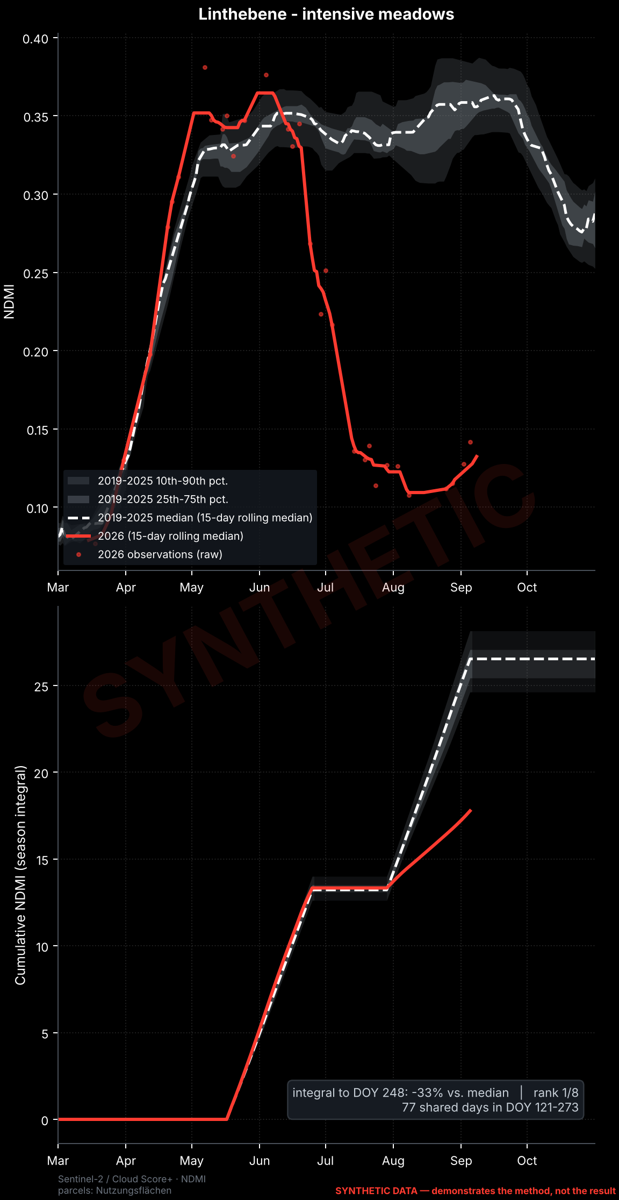
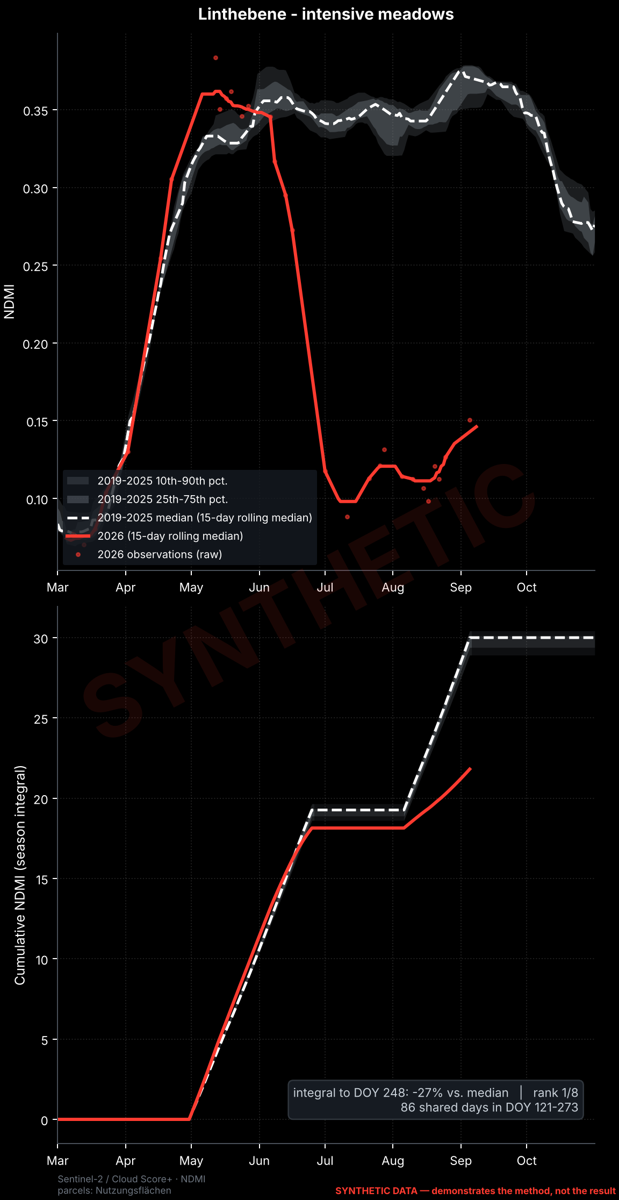
Final real results from the 14 October run; docs gate green
- Condition, DOY 121-273, 2019-2025 baseline, rank 1 of 8 everywhere:
  Linthebene -27 % / -29 %, Rheintal -23 % / -28 % (intensive / extensive).
- Robustness table in METHOD §3.4: cut at DOY 245, and haze filter off.
  2026 ranks last in every variant; the filter moves three integrals by
  under half a point. The preliminary run's larger Linthebene deficits are
  recorded, with what changed between the runs and what the window does
  not explain.
- Precipitation to 12 October: 690 mm, 61 % of median, driest of 31;
  P - ET0 -74 mm against +494 mm.
- {{RUN_DATE}} filled; README note about the un-rebuilt mask replaced.
- Synthetic targets: final integrals and precipitation; the demo
  recalibrates to them and passes.

All 78 tests pass, including test_docs.

diff --git a/src/drought/synthetic/targets.py b/src/drought/synthetic/targets.py
@@ -11,7 +11,7 @@ Provenance keys:
     geometry  `mask_figures.figure_parcel_size()` on the master set, full extent
     area      `mask.area_table()`, clipped to the raster window
     traj      `trajectory` season NDMI integral, 2026 against the 2019–2025 median
-    precip    `precip.main()`, MeteoSwiss station St. Gallen, to 10 August 2026
+    precip    `precip.main()`, MeteoSwiss station St. Gallen, to 12 October 2026
     detect    `evaluate.score()` on 65 hand-labelled parcel-years — extractions on
               the PREVIOUS 20 m mask, not yet re-run on the 10 m mask
 """
@@ -65,24 +65,31 @@ AREA_RATIO = {
 }
 
 # --- grassland condition (provenance: traj) -----------------------------------
-# season NDMI integral, 2026 vs the 2019–2025 median, %; rank 1 of 8 everywhere
+# season NDMI integral, 2026 vs the 2019–2025 median, %; rank 1 of 8 everywhere.
+# Run of 2026-10-14, DOY 121–273 (the preliminary run had -33/-35/-23/-30 to
+# DOY 245–250; METHOD §3.4).
 INTEGRAL_PCT = {
-    ("linthebene", "intensive"): -33.0,
-    ("linthebene", "extensive"): -35.0,
-    ("rheintal", "intensive"): -23.0,
-    ("rheintal", "extensive"): -30.0,
+    ("linthebene", "intensive"): -27.3,
+    ("linthebene", "extensive"): -28.9,
+    ("rheintal", "intensive"): -22.7,
+    ("rheintal", "extensive"): -28.2,
 }
 NDMI_MIN_AUGUST = (0.09, 0.15)    # the 2026 minimum, mid-August
-INTEGRAL_END_DOY = (245, 250)     # integrals run to here
-SHARED_DAYS = (75, 100)           # days observed in every year, of 153
+INTEGRAL_END_DOY = (273, 273)     # real integrals run to here (the window end)
+SHARED_DAYS = (103, 114)          # days observed in every year, of 153
+# The synthetic 2026 season still ends in early September (END_2026 in
+# series.py), as the preliminary exports did, and its draws are accepted at
+# 75-100 shared days. The integrals are solved to the values above regardless;
+# extending the synthetic season to October is not needed to test the method.
+SYNTHETIC_SHARED_DAYS = (75, 100)
 
 # --- precipitation (provenance: precip) ---------------------------------------
 PRECIP = {
-    "end_doy": 222,               # 10 August 2026
-    "p_2026_mm": 501.0,
-    "p_median_mm": 826.0,         # 61 % of median, rank 1 of 31
-    "wb_2026_mm": -84.0,          # P - ET0 (Hargreaves)
-    "wb_median_mm": 324.0,
+    "end_doy": 285,               # 12 October 2026
+    "p_2026_mm": 690.0,
+    "p_median_mm": 1135.0,        # 61 % of median, rank 1 of 31
+    "wb_2026_mm": -74.0,          # P - ET0 (Hargreaves)
+    "wb_median_mm": 494.0,
 }
 
 # --- cut detector (provenance: detect) ----------------------------------------

diff --git a/src/drought/synthetic/station.py b/src/drought/synthetic/station.py
@@ -6,9 +6,9 @@ tre200dx, tre200dn) so `precip` reads it through the same code path as the
 real files.
 
 Calibrated to the real result (targets.PRECIP): the 1991-2020 median
-cumulative precipitation to 10 August is 826 mm and 2026 reaches 501 mm, the
-driest of 31; the Hargreaves water balance P - ET0 has a median of +324 mm and
-2026 ends at -84 mm. Precipitation is scaled to hit the totals exactly; ET0 is
+cumulative precipitation to 12 October is 1,135 mm and 2026 reaches 690 mm,
+the driest of 31; the Hargreaves water balance P - ET0 has a median of +494 mm
+and 2026 stands at -74 mm (targets.PRECIP). Precipitation is scaled to hit the totals exactly; ET0 is
 hit by solving for a temperature-range factor (baseline) and a summer heat
 anomaly (2026, on top of a 30 % wider daily range under clear skies).
 """
@@ -68,7 +68,7 @@ def _cum_to(series: pd.Series, year: int, end_doy: int) -> float:
 
 
 def generate(rng: np.random.Generator) -> pd.DataFrame:
-    """Daily station series 1991-01-01 .. 2026-08-10, calibrated.
+    """Daily station series 1991-01-01 .. the target day of 2026, calibrated.
 
     Returns:
         DataFrame indexed by date with rre150d0, tre200d0, tre200dx, tre200dn.

diff --git a/src/drought/synthetic/series.py b/src/drought/synthetic/series.py
@@ -189,7 +189,7 @@ def _draw_ok(site, acq_by_year, setup, tj) -> bool:
     land in that range for both regimes — and the real integral is reachable
     within the collapse model's range.
     """
-    lo, hi = T.SHARED_DAYS
+    lo, hi = T.SYNTHETIC_SHARED_DAYS
     for regime, (years_rng, sub_seed) in setup.items():
         drop = _minimum_drop(site, regime, years_rng)
         res = {}
@@ -254,7 +254,7 @@ def trajectories(rng: np.random.Generator, cfg=None, verbose: bool = True) -> pd
             raise RuntimeError(f"{site}: no cloud draw matched the observed record")
         if verbose and calibrated:
             print(f"    {site}: cloud draw {n_draws} accepted "
-                  f"({T.SHARED_DAYS[0]}-{T.SHARED_DAYS[1]} shared days, 8 years, as observed)")
+                  f"({T.SYNTHETIC_SHARED_DAYS[0]}-{T.SYNTHETIC_SHARED_DAYS[1]} shared days, 8 years, as observed)")
         for regime in ("intensive", "extensive"):
             years_rng, sub_seed = setup[regime]
             drop = _minimum_drop(site, regime, years_rng)

diff --git a/src/drought/demo.py b/src/drought/demo.py
@@ -259,10 +259,13 @@ def _report(s: dict, T) -> None:
             add("condition", f"{site} {reg} integral (rank)",
                 f"{t['integral_pct']:+.0f}% ({t['rank']}/8)", f"{v:+.0f}% (1/8)", "calibrated")
     p = s["precip"]
-    add("precip", "P to 10 Aug, % of median (rank)",
+    pt = T.PRECIP
+    add("precip", "P to DOY " + str(pt["end_doy"]) + ", % of median (rank)",
         f"{p['precip_mm']:.0f} mm, {p['precip_pct_of_median']:.0f}% ({p['precip_rank']}/31)",
-        "501 mm, 61% (1/31)", "calibrated")
-    add("precip", "P - ET0 to 10 Aug", f"{p['wb_mm']:+.0f} mm", "-84 mm", "calibrated")
+        f"{pt['p_2026_mm']:.0f} mm, {100 * pt['p_2026_mm'] / pt['p_median_mm']:.0f}% (1/31)",
+        "calibrated")
+    add("precip", "P - ET0 to DOY " + str(pt["end_doy"]), f"{p['wb_mm']:+.0f} mm",
+        f"{pt['wb_2026_mm']:+.0f} mm", "calibrated")
     for site, d in s["detector"].items():
         add("detector", f"{site} P / R / F1",
             f"{d['precision']:.2f} / {d['recall']:.2f} / {d['f1']:.2f}",

diff --git a/docs/METHOD.md b/docs/METHOD.md
@@ -174,7 +174,8 @@ one Gaussian.
 implement this model. `purity_psf()` used a single Gaussian fitted to the whole
 system MTF, with σ 5.30 m. It read each cell as the mean of the 2 × 2 sub-cells
 around its centre. The deck and `figure_psf()`, meanwhile, showed box ⊛
-Gaussian. Every real number in §2.4 comes from the single-Gaussian mask.
+Gaussian. The preliminary real numbers came from that single-Gaussian mask;
+every real number now in this document comes from box ⊛ Gaussian.
 
 Both models reach MTF 0.25 at Nyquist, and their second moments agree to 1.5 %
 (5.30 m against 5.22 m). `mask.measured_response_fwhm()` passes a line source
@@ -308,7 +309,7 @@ contradiction in its own output:
 - **Cloud luck.** A gap counted as zero growth, so a well-observed year beat a
   poorly observed one regardless of vegetation. The symptom was a curve 15 %
   below the median that ranked only 4th of 8. Every year is now integrated over
-  exactly the days that **all** years observed: 75–100 of the 153 in the window,
+  exactly the days that **all** years observed: 103–114 of the 153 in the window,
   depending on site and management system.
 
 The integral stops at the current year's last observation, so it is a
@@ -330,8 +331,10 @@ on which one is shown.
 
 | | Linthebene | St. Galler Rheintal |
 |---|---|---|
-| intensive | −33 % | −23 % |
-| extensive | −35 % | −30 % |
+| intensive | −27 % | −23 % |
+| extensive | −29 % | −28 % |
+
+Run of 14 October 2026, DOY 121–273, 2019–2025 baseline.
 
 Every one of the four was the lowest of eight years. Spring ran at or above
 normal; the index collapsed through July to 0.09–0.15 in mid-August and
@@ -340,6 +343,34 @@ broke, not a failed year. The two management systems have very different
 cutting regimes, so their agreement rules out mowing as the explanation.
 Rheintal is consistently milder, as its position near the Rhine and its
 shallower groundwater would predict.
+
+**Robustness.** Each variant below changes one choice. 2026 ranks last of eight
+in every cell:
+
+| | final | to DOY 245 | haze filter off |
+|---|---|---|---|
+| Linthebene intensive | −27.3 % | −24.2 % | −27.6 % |
+| Linthebene extensive | −28.9 % | −29.1 % | −26.1 % |
+| Rheintal intensive | −22.7 % | −23.7 % | −22.9 % |
+| Rheintal extensive | −28.2 % | −29.4 % | −28.3 % |
+
+The haze filter removed more dates in 2026 (80) than in any other year (46–57).
+But 2026 also had the most dates, so the rate is 19.7 % against 13.4–18.7 %.
+Switching the filter off moves three integrals by under half a point and makes
+Linthebene extensive less negative by 2.8 points. That is the direction METHOD
+§3.1 expects: haze depresses NDVI rather than NDMI, so removing hazy dates
+removes noise, not drought.
+
+**What changed from the preliminary run.** A run on the earlier mask gave −33 %
+and −35 % at Linthebene, and −23 % and −30 % at Rheintal. Rheintal is unchanged
+within two points. Linthebene is smaller by six points in both systems. The
+longer window does not explain it: cut at DOY 245, close to where the
+preliminary integrals ended, Linthebene intensive is −24 %. Between the two
+runs the response model, the parcel set (no size filter), the date coverage
+(the preliminary export ended around DOY 245–250) and the Earth Engine implementation
+all changed, and the preliminary export cannot be re-read to separate them. The
+numbers above are the ones this repository reproduces. The preliminary ones are
+recorded here because they were presented before.
 
 ---
 
@@ -354,15 +385,16 @@ partial-month artefact. The figure shows the envelope of the 30 individual
 baseline years, so a reader can see whether 2026 lies outside the historical
 range, not merely below average.
 
-To 10 August 2026: **501 mm against a median of 826 mm**. That is 61 % of the
-median and the driest of 31 years in the comparison window.
+To 12 October 2026: **690 mm against a median of 1,135 mm**. That is 61 % of
+the median and the driest of 31 years in the comparison window. (To 10 August
+it was 501 mm against 826, also 61 %: the deficit did not close in autumn.)
 
 Precipitation alone understates a hot drought, so the second panel is the
 climatic water balance P − ET0, with ET0 from Hargreaves. This is an index of
-atmospheric demand against supply, **not** a soil water balance. It ended at
-**−84 mm against a median of +324 mm**. Because the quantity crosses zero, it is
-reported as a difference, never as a percentage. "−26 % of normal" would be a
-serious misreading of a 408 mm shortfall.
+atmospheric demand against supply, **not** a soil water balance. It stood at
+**−74 mm against a median of +494 mm** on 12 October. Because the quantity
+crosses zero, it is reported as a difference, never as a percentage. "−15 % of
+normal" would be a serious misreading of a 568 mm shortfall.
 
 ---
 
@@ -628,8 +660,8 @@ in the same files and schemas, deterministically from one seed:
 | intensive median ha / < 0.5 ha / shape | 0.70 / 42 % / 5.54 | 0.67 / 43 % / 5.56 | calibrated |
 | extensive median ha / < 0.5 ha / shape | 0.20 / 84 % / 6.35 | 0.19 / 85 % / 6.44 | calibrated |
 | mown median ha / < 0.5 ha / shape | 0.45 / 53 % / 5.76 | 0.42 / 54 % / 5.75 | emergent |
-| integrals (four) | −33 / −35 / −23 / −30 %, rank 1/8 | same | calibrated |
-| precipitation, P − ET0 to 10 Aug | 501 mm, −84 mm | same | calibrated |
+| integrals (four) | −27 / −29 / −23 / −28 %, rank 1/8 | same | calibrated |
+| precipitation, P − ET0 to 12 Oct | 689 mm, −75 mm | 690 mm, −74 mm | calibrated |
 | area ratio intensive, > 0 / ≥ 0.9 | 1.54 / 0.74 | 1.47 / 0.80 | emergent |
 | area ratio extensive, > 0 / ≥ 0.9 | 3.18 / 0.36 | 3.62 / 0.45 | emergent |
 | master set retained | 79.1 % | 81.3 % | planted |

diff --git a/README.md b/README.md
@@ -1,12 +1,12 @@
 # Reading a drought from space
 
 Sentinel-2 and MeteoSwiss station data show that the 2026 summer drought in the
-Canton of St. Gallen cut the season's grassland moisture signal by a quarter to
-a third. Every site and management system ranked last of eight years.
+Canton of St. Gallen cut the season's grassland moisture signal by roughly a
+quarter. Every site and management system ranked last of eight years.
 
 ![Linthebene, intensive meadows: 2026 NDMI against the 2019–2025 envelope](docs/figures/real/vi_trajectory_NDMI_intensive_linthebene.png)
 
-*Linthebene, intensive meadows, site-mean NDMI. Real data, run of {{RUN_DATE}}.
+*Linthebene, intensive meadows, site-mean NDMI. Real data, run of 14 October 2026.
 The input data cannot be published; the commands below run the same pipeline on
 synthetic data.*
 
@@ -23,25 +23,27 @@ make demo           # whole pipeline on synthetic data, ~80 s -> output/syntheti
 
 | | Linthebene | St. Galler Rheintal |
 |---|---|---|
-| Season NDMI integral, intensive meadows | **−33 %** | **−23 %** |
-| Season NDMI integral, extensive meadows | **−35 %** | **−30 %** |
+| Season NDMI integral, intensive meadows | **−27 %** | **−23 %** |
+| Season NDMI integral, extensive meadows | **−29 %** | **−28 %** |
 | Rank among 2019–2026 | 1 of 8 | 1 of 8 |
 
-The comparison is 2026 against the 2019–2025 median, integrated to DOY 245–250
-over the 75–100 days that every year observed. The deficit was not season-long.
-Spring ran at or above normal; the index collapsed through July to 0.09–0.15
-in mid-August and recovered sharply from early September.
+The comparison is 2026 against the 2019–2025 median over May to September
+(DOY 121–273), on the 103–114 days that every year observed. The deficit was not
+season-long. Spring ran at or above normal; the index collapsed through July to
+0.09–0.15 in mid-August and recovered sharply from early September.
 
 The station data, an entirely independent source, agree. St. Gallen recorded
-501 mm by 10 August, 61 % of the 1991–2020 median and the driest of 31 years.
-The climatic water balance P − ET0 ended at −84 mm, against a median of +324 mm.
+690 mm by 12 October, 61 % of the 1991–2020 median and the driest of 31 years.
+The climatic water balance P − ET0 stood at −74 mm, against a median of +494 mm.
 
-All mask-based numbers above were produced by the mask as it was then built:
-a single-Gaussian response model (σ 5.30 m) and a 0.25 ha parcel filter. The
-filter has since been removed ([METHOD §2.1](docs/METHOD.md#21-which-fields-the-master-parcel-set)). The repository now defaults
-to the model the method describes (see [METHOD §2.3](docs/METHOD.md#23-the-sensor-response)).
-On synthetic parcels the model switch moves retained area by 1–3 points. The
-real mask has not yet been rebuilt with either change.
+Every number above comes from the pipeline in this repository as it stands: the
+box ⊛ Gaussian sensor response, no parcel size filter, the Earth Engine exports
+run from Python, and every input checked against its provenance record. A
+preliminary run with an older mask had given larger deficits at Linthebene (−33
+and −35 %); [METHOD §3.4](docs/METHOD.md#34-result) says what changed and what
+did not. The result does not depend on the residual-haze filter: with it off,
+every series still ranks last, and three of four integrals move by under half a
+point.
 
 ## What this repository is evidence of
 

diff --git a/docs/gallery.md b/docs/gallery.md
@@ -19,13 +19,14 @@ copied in by hand from a real run ([rules](figures/real/README.md)).
 
 ### Grassland condition, season NDMI against 2019–2025
 
-Run of {{RUN_DATE}}. Mask built with the single-Gaussian response model; see
-[METHOD §2.3](METHOD.md#23-the-sensor-response).
+Run of 14 October 2026. Mask built with the box ⊛ Gaussian response model and
+no size filter ([METHOD §2](METHOD.md#2-the-grassland-mask)); integrals over
+DOY 121–273.
 
 | | intensive meadows | extensive meadows |
 |---|---|---|
-| **Linthebene** | ![](figures/real/vi_trajectory_NDMI_intensive_linthebene.png) −33 %, rank 1 of 8 | ![](figures/real/vi_trajectory_NDMI_extensive_linthebene.png) −35 %, rank 1 of 8 |
-| **St. Galler Rheintal** | ![](figures/real/vi_trajectory_NDMI_intensive_rheintal.png) −23 %, rank 1 of 8 | ![](figures/real/vi_trajectory_NDMI_extensive_rheintal.png) −30 %, rank 1 of 8 |
+| **Linthebene** | ![](figures/real/vi_trajectory_NDMI_intensive_linthebene.png) −27 %, rank 1 of 8 | ![](figures/real/vi_trajectory_NDMI_extensive_linthebene.png) −29 %, rank 1 of 8 |
+| **St. Galler Rheintal** | ![](figures/real/vi_trajectory_NDMI_intensive_rheintal.png) −23 %, rank 1 of 8 | ![](figures/real/vi_trajectory_NDMI_extensive_rheintal.png) −28 %, rank 1 of 8 |
 
 Top panel: site-mean NDMI, with the 2019–2025 envelope and median, 2026 in red,
 and the raw 2026 observations as dots. Bottom panel: the season integral over
@@ -35,8 +36,8 @@ the days every year observed (unshaded). [METHOD §3](METHOD.md#3-grassland-cond
 
 ![Cumulative precipitation and P − ET0, 2026 against 1991–2020](figures/real/precip_stg_2026.png)
 
-501 mm to 10 August, 61 % of the 1991–2020 median, the driest of 31 years.
-P − ET0 (Hargreaves) ended at −84 mm, against a median of +324 mm.
+690 mm to 12 October, 61 % of the 1991–2020 median, the driest of 31 years.
+P − ET0 (Hargreaves) stood at −74 mm, against a median of +494 mm.
 Source: MeteoSwiss. [METHOD §4](METHOD.md#4-precipitation-and-water-balance).
 
 ### Field size and shape, and what the purity threshold costs
